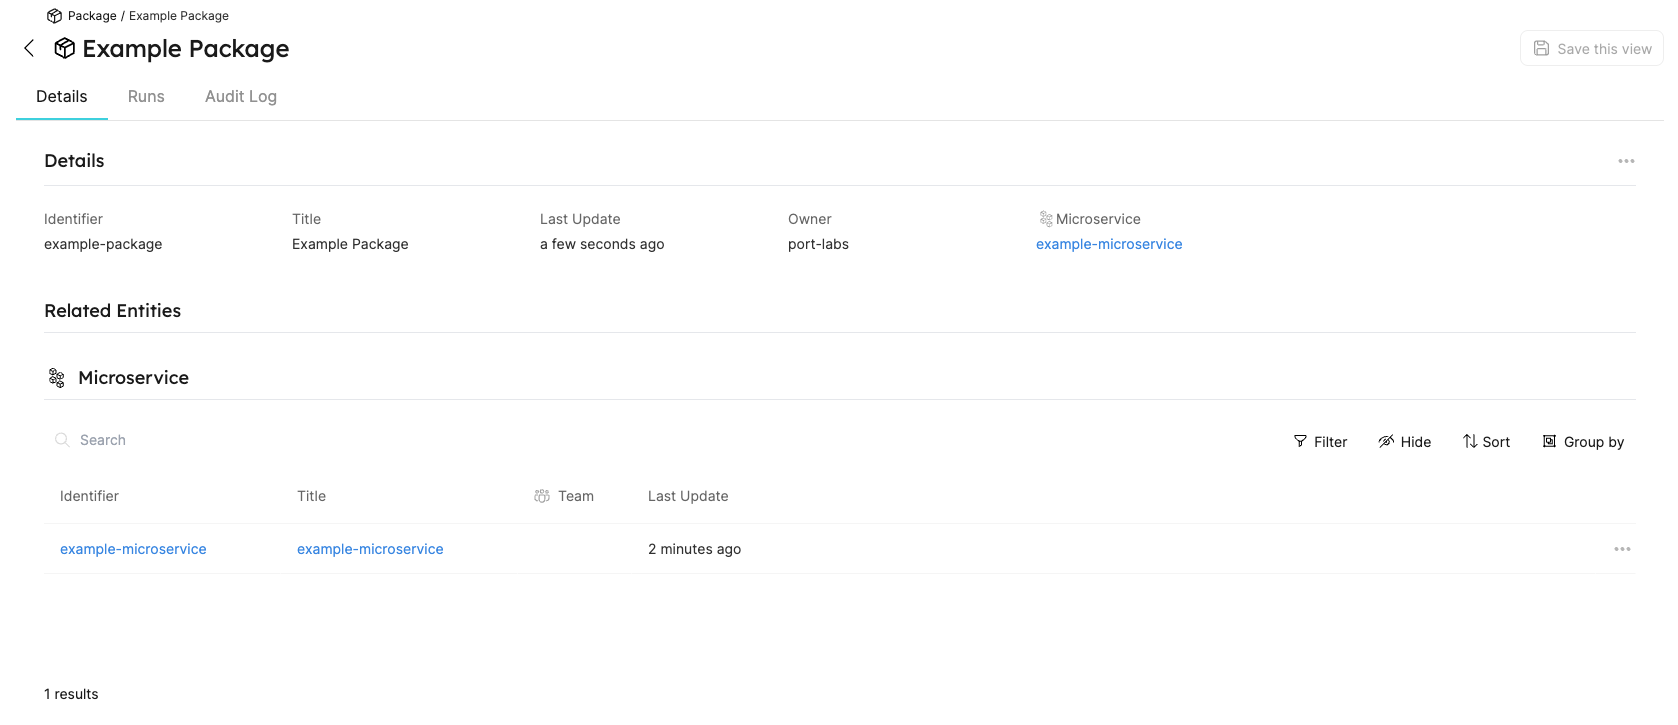
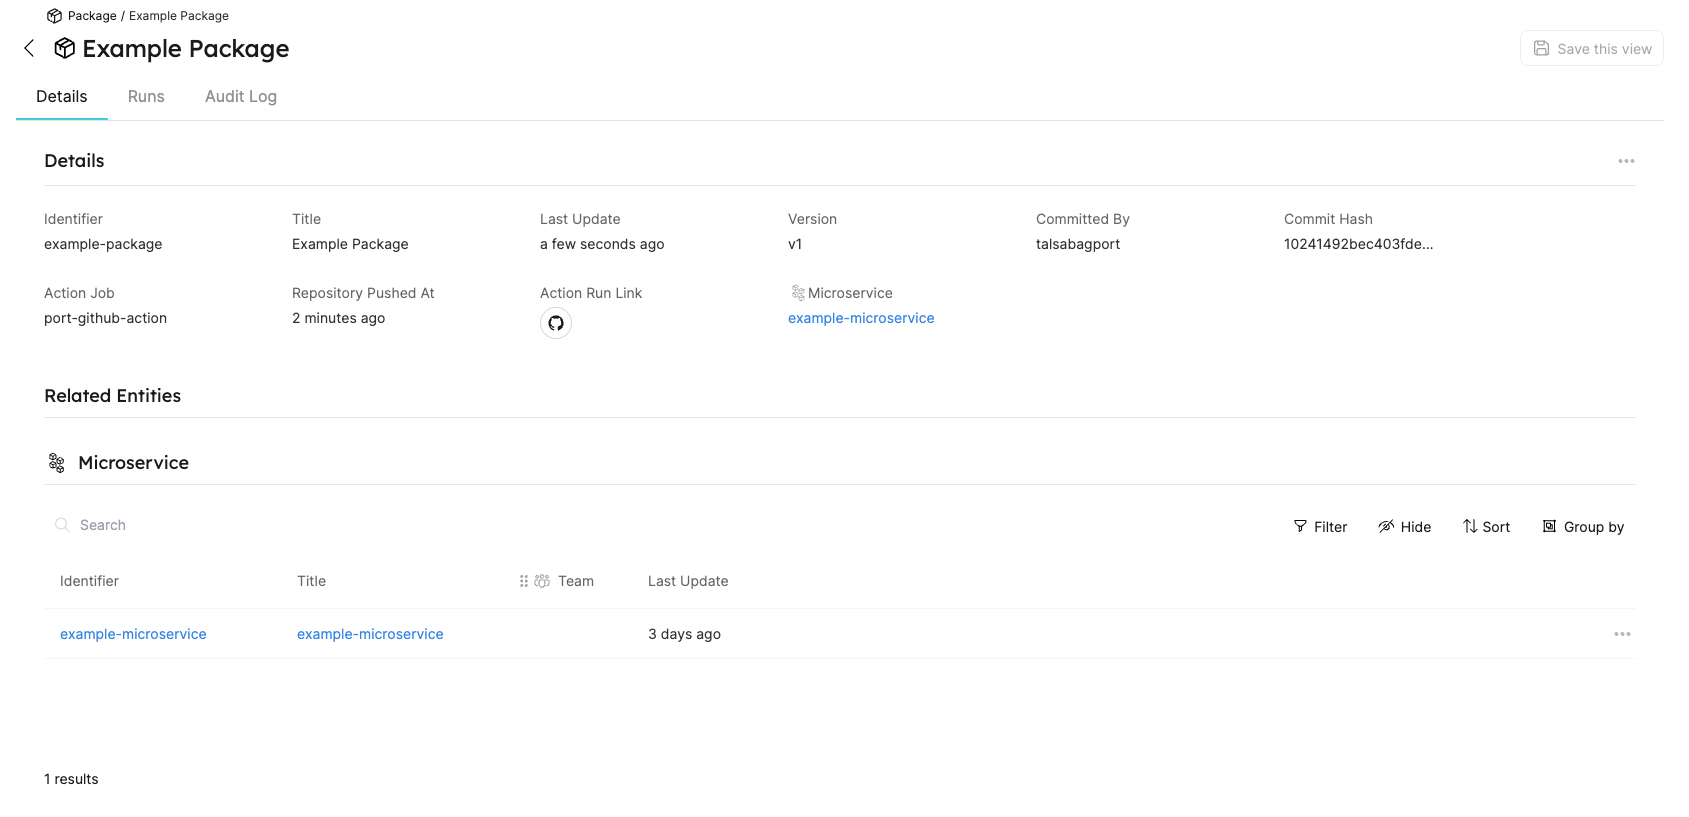
Improve properties

diff --git a/docs/integrations/github/github-action.md b/docs/integrations/github/github-action.md
@@ -35,7 +35,12 @@ Add the following to your workflow yml file:
     blueprint: Package
     properties: |
       {
-        "owner": "port-labs"
+        "version": "v1",
+        "committedBy": "${{ github.actor }}",
+        "commitHash": "${{ github.sha }}",
+        "actionJob": "${{ github.job }}",
+        "repoPushedAt": "${{ github.event.repository.pushed_at}}",
+        "runLink": "${{ format('{0}/actions/runs/{1}', github.event.repository.html_url, github.run_id) }}"
       }
     relations: |
       {
